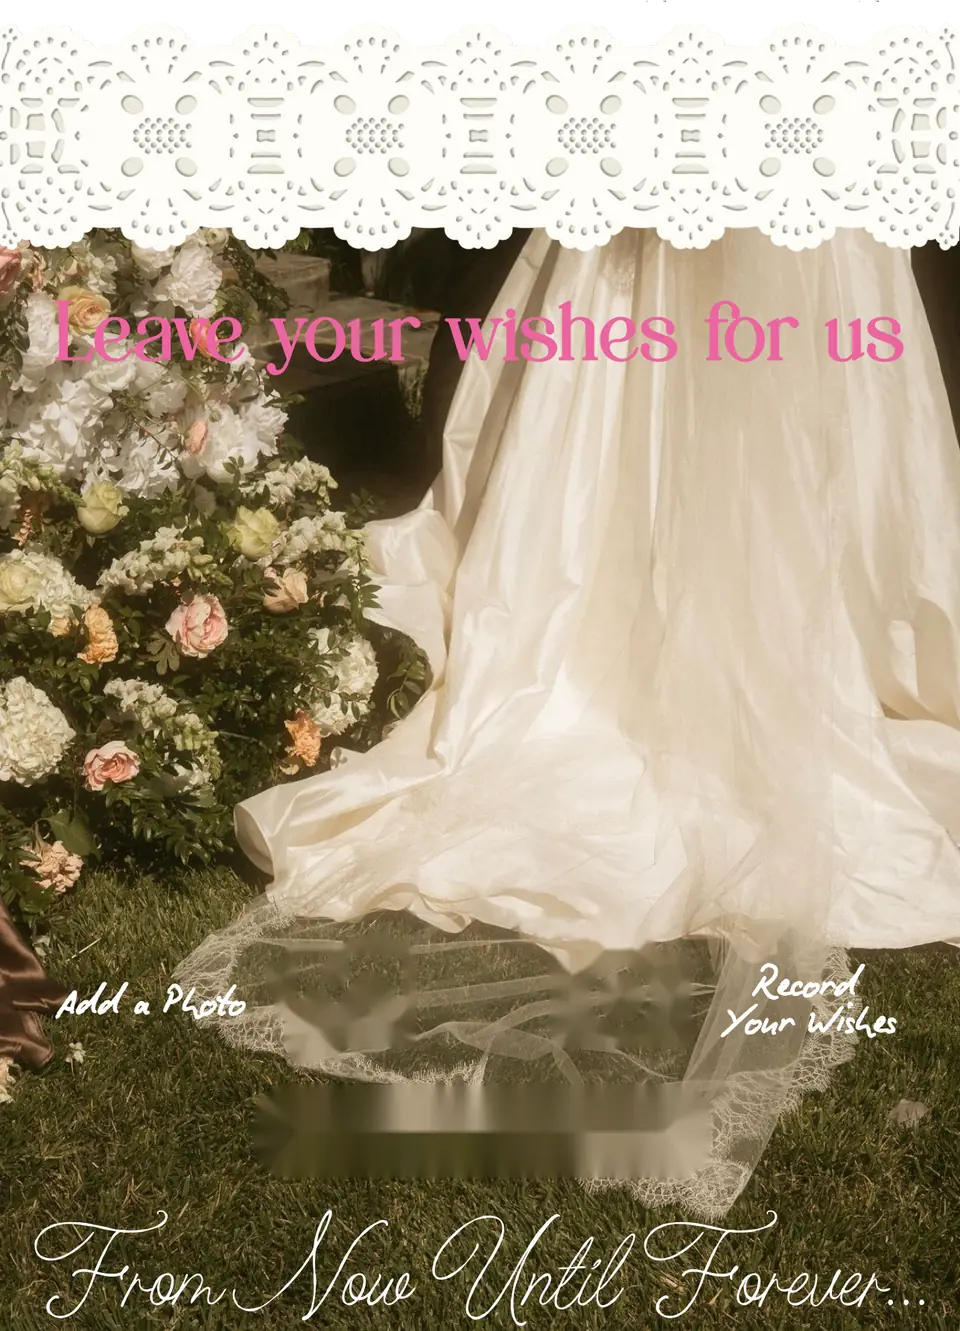
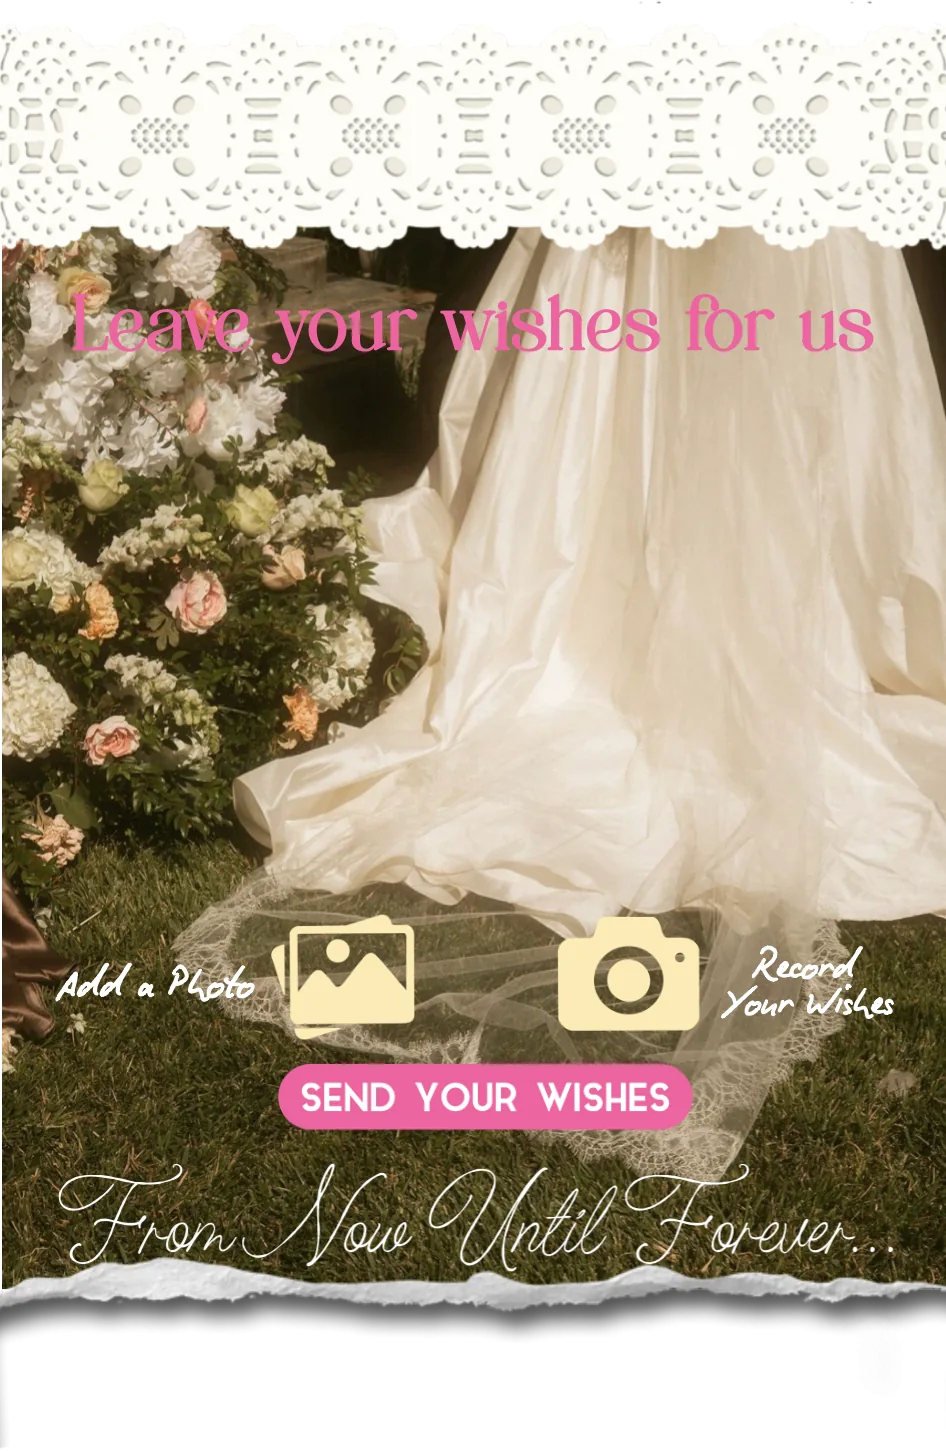
fix

diff --git a/index.html b/index.html
@@ -125,7 +125,7 @@ input[type=number].field{-moz-appearance:textfield}
 .done-msg.on{display:grid}
 
 /* ================= หน้า 5 : คำอวยพร ================= */
-.p-wishes{--dw:1289;margin-top:calc((-24 + var(--sy, 0)) * var(--u))}      /* --sy = ระยะที่เลื่อนขอบลูกไม้จากหน้า /edit (ทั้งหน้านี้และทุกอย่างด้านล่างเลื่อนตาม) */
+.p-wishes{--dw:1289;margin-top:calc((-24 + var(--sy, 0)) * var(--u));z-index:2}      /* z-index: ขอบกระดาษฉีกด้านล่างทับภาพท้ายเว็บ */      /* --sy = ระยะที่เลื่อนขอบลูกไม้จากหน้า /edit (ทั้งหน้านี้และทุกอย่างด้านล่างเลื่อนตาม) */
 /* พื้นที่แตะเลือก "ขอบลูกไม้" ในหน้า /edit (มองไม่เห็น และแขกแตะไม่โดน) */
 .seam{position:absolute;left:0;top:0;width:100%;height:calc(var(--h) * var(--u));pointer-events:none}
 .wish-field{
@@ -153,7 +153,7 @@ input.wish-field{padding-top:0;padding-bottom:0}
 .thanks button{margin-top:16px;padding:10px 22px;border-radius:999px;border:1px solid #fff;color:#fff;font-size:14px}
 
 /* ================= ท้ายสุด : Thank you (ภาพต่อเนื่อง 8 เฟรม) ================= */
-.p-ending{--dw:946;margin-top:calc(-40 * var(--u))}      /* ขอบกระดาษฉีกด้านบนเลื่อนขึ้นไปทับขอบล่างของหน้าคำอวยพร */
+.p-ending{--dw:946;margin-top:calc(-191 * var(--u))}      /* สอดเข้าใต้ขอบกระดาษฉีกของหน้าคำอวยพร (ขอบบนของภาพนี้จึงถูกบังมิด) */
 .p-ending img{width:100%;height:auto}
 .p-ending .fr{position:absolute;left:0;top:0;visibility:hidden}      /* สลับภาพทันที ไม่เลือน */
 .p-ending .fr.on{visibility:visible}
@@ -352,22 +352,19 @@ window.JN_INTRO = new Promise(function (done) {
 
   <!-- ================= หน้า 5 : คำอวยพร ================= -->
   <section class="page p-wishes" id="wishes">
-    <img class="bg" src="assets/bg-wishes.webp" alt="Leave your wishes for us — From Now Until Forever..." width="1000" height="1386" loading="lazy">
-    <div class="seam" style="--h:335" aria-hidden="true"></div>
+    <img class="bg" src="assets/bg-wishes.webp?v=2" alt="Leave your wishes for us — From Now Until Forever..." width="946" height="1451" loading="lazy">
+    <div class="seam" style="--h:341" aria-hidden="true"></div>
     <form id="wishForm" novalidate>
-      <input class="a h wish-field" style="--x:124;--y:585;--w:1038;--h:128" name="name" maxlength="120" placeholder="ระบุชื่อเจ้าของคำอวยพร (Say your name)" aria-label="ชื่อเจ้าของคำอวยพร" required>
-      <textarea class="a h wish-field" style="--x:124;--y:752;--w:1038;--h:464" name="message" maxlength="2000" placeholder="เขียนคำอวยพรให้พวกเรา (Leave your wishes for us) :)" aria-label="คำอวยพร"></textarea>
+      <input class="a h wish-field" style="--x:95;--y:525;--w:1098;--h:123" name="name" maxlength="120" placeholder="ระบุชื่อเจ้าของคำอวยพร (Say your name)" aria-label="ชื่อเจ้าของคำอวยพร" required>
+      <textarea class="a h wish-field" style="--x:95;--y:674;--w:1098;--h:545" name="message" maxlength="2000" placeholder="เขียนคำอวยพรให้พวกเรา (Leave your wishes for us) :)" aria-label="คำอวยพร"></textarea>
 
-      <img class="a deco bob" style="--x:349;--y:1254;--w:206" src="assets/ic-photo.webp" alt="" width="200" height="175" loading="lazy">
-      <img class="a deco bob" style="--bd:.4s;--x:742;--y:1255;--w:184" src="assets/ic-video.webp" alt="" width="200" height="162" loading="lazy">
-      <img class="a deco bob" style="--bd:.8s;--x:343;--y:1460;--w:608" src="assets/btn-send.webp" alt="" width="480" height="93" loading="lazy">
-      <button type="button" class="a h hot tap" id="pickPhoto" style="--x:70;--y:1240;--w:495;--h:205" aria-label="Add a Photo — แนบรูป"><span class="badge" id="photoBadge">✓</span></button>
-      <button type="button" class="a h hot tap" id="pickVideo" style="--x:730;--y:1240;--w:495;--h:205" aria-label="Record Your Wishes — อัดวิดีโออวยพร"><span class="badge" id="videoBadge">✓</span></button>
+      <button type="button" class="a h hot tap" id="pickPhoto" style="--x:55;--y:1233;--w:531;--h:204" aria-label="Add a Photo — แนบรูป"><span class="badge" id="photoBadge">✓</span></button>
+      <button type="button" class="a h hot tap" id="pickVideo" style="--x:709;--y:1233;--w:531;--h:204" aria-label="Record Your Wishes — อัดวิดีโออวยพร"><span class="badge" id="videoBadge">✓</span></button>
       <input type="file" class="file-in" id="photoInput" accept="image/*" tabindex="-1" aria-hidden="true">
       <input type="file" class="file-in" id="videoInput" accept="video/*" capture="user" tabindex="-1" aria-hidden="true">
       <input type="file" class="file-in" id="videoLib" accept="video/*" tabindex="-1" aria-hidden="true">
 
-      <button type="submit" class="a h hot tap" style="--x:342;--y:1462;--w:608;--h:115" aria-label="Send your wishes — ส่งคำอวยพร"></button>
+      <button type="submit" class="a h hot tap" style="--x:371;--y:1442;--w:580;--h:104" aria-label="Send your wishes — ส่งคำอวยพร"></button>
     </form>
     <div class="sending" id="sending" role="status"><div><b id="sendPct">0%</b>กำลังส่งคำอวยพร…<br>กรุณาอย่าปิดหน้านี้</div></div>
     <div class="thanks" id="wishThanks" role="status"><div><h3>Thank you</h3>ได้รับคำอวยพรแล้ว ขอบคุณมากนะคะ<br><button type="button" id="wishAgain">ส่งอีกครั้ง</button></div></div>

diff --git a/server.js b/server.js
@@ -114,11 +114,12 @@ async function sendPage(res, cache) {
   const html = (await fsp.readFile(path.join(ROOT, 'index.html'), 'utf8')).replace('/*LAYOUT*/{}', () => data);
   res.set('Cache-Control', cache).type('html').send(html);
 }
-app.get(['/', '/index.html'], wrap((req, res) => sendPage(res, 'no-cache')));
+// no-store: ไม่ให้เบราว์เซอร์ (รวมถึงเบราว์เซอร์ใน LINE) เก็บหน้าเว็บไว้ใช้ซ้ำ เปิดใหม่เมื่อไรก็ได้เวอร์ชันล่าสุด
+app.get(['/', '/index.html'], wrap((req, res) => sendPage(res, 'no-store')));
 // ลิงก์แยก: เปิดมาแล้วเริ่มที่หน้าเขียนคำอวยพรเลย (หน้าเว็บเดียวกัน index.html เลื่อนลงไปเอง)
 app.get('/wishes', wrap((req, res) => {
   if (req.path !== '/wishes') return res.redirect('/wishes');      // ตัด / ท้ายลิงก์ ไม่งั้นหารูปไม่เจอ
-  return sendPage(res, 'no-cache');
+  return sendPage(res, 'no-store');
 }));
 // หน้าแก้ตำแหน่ง: หน้าเว็บเดียวกัน + โหลด edit.js (ต้องใส่รหัสก่อนถึงจะแก้/บันทึกได้)
 app.get('/edit', wrap((req, res) => {
